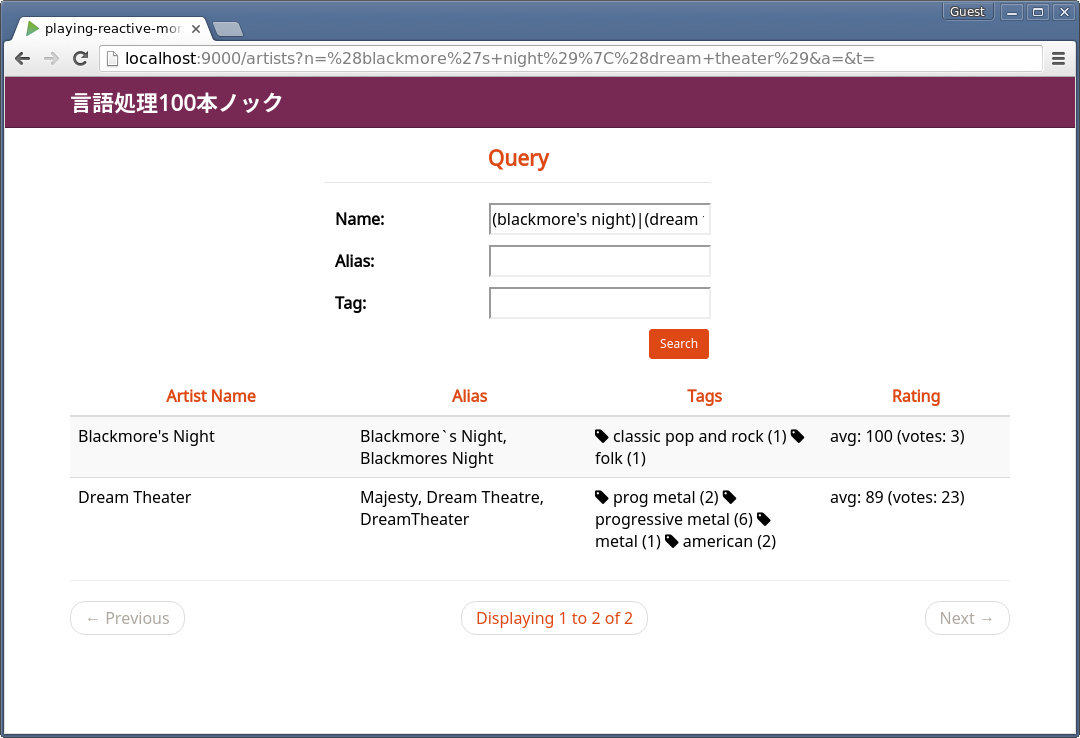
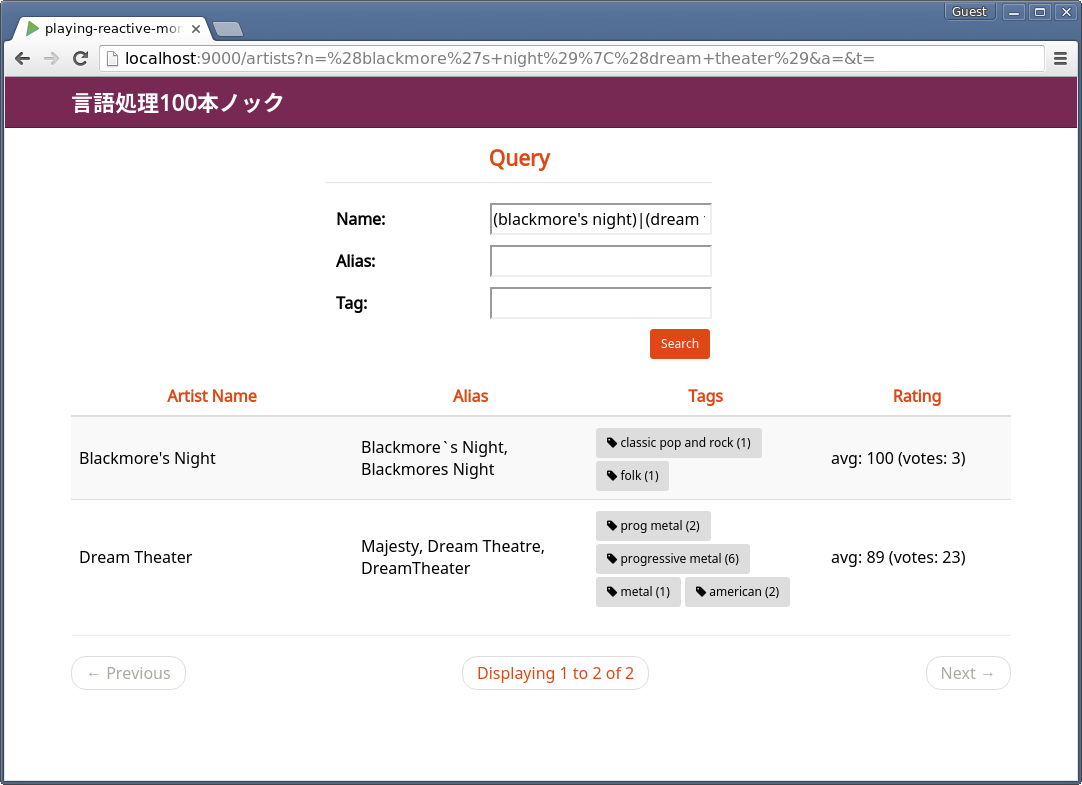
Change the style of tags

diff --git a/Q69/app/views/list.scala.html b/Q69/app/views/list.scala.html
@@ -49,7 +49,7 @@
               <td>
                 @Html(artist.tags match {
                   case Some(tags) => tags.map(
-                    tag => s"""<i class="fa fa-tag"></i> ${tag.value} (${tag.count})""").mkString(" ")
+                    tag => s"""<button class="btn btn-sm"><i class="fa fa-tag"></i> ${tag.value} (${tag.count})</button>""").mkString(" ")
                   case None => ""
                 })
               </td>

diff --git a/Q69/public/stylesheets/main.css b/Q69/public/stylesheets/main.css
@@ -63,3 +63,12 @@ div.query legend {
 table.table {
   table-layout: fixed;
 }
+
+.table > tbody > tr > td {
+  vertical-align: middle;
+}
+
+td > button {
+  margin-top: 3px;
+  margin-bottom: 3px;
+}
